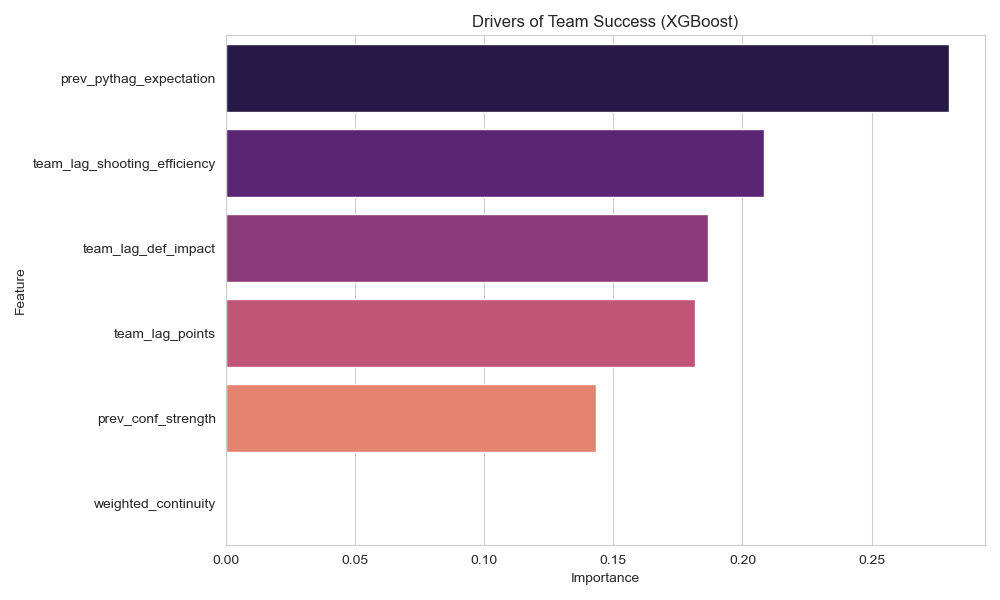
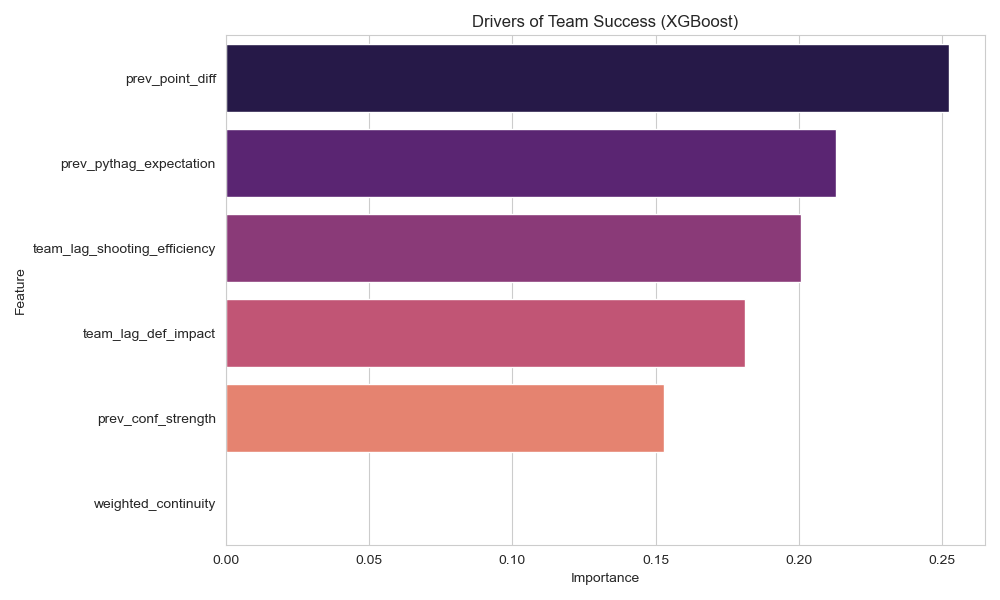
rankings updated

diff --git a/rankings.py b/rankings.py
@@ -50,21 +50,22 @@ print("Calculating Pythagorean Expectation...")
 
 teams_df_raw['pythag_win_pct'] = (teams_df_raw['o_pts']**13.91) / (teams_df_raw['o_pts']**13.91 + teams_df_raw['d_pts']**13.91)
 
+teams_df_raw['point_diff_pg'] = (teams_df_raw['o_pts'] - teams_df_raw['d_pts']) / teams_df_raw['GP']
+
 teams_df_raw['next_year'] = teams_df_raw['year'] + 1
-pythag_features = teams_df_raw[['tmID', 'next_year', 'pythag_win_pct']].rename(columns={'next_year': 'year', 'pythag_win_pct': 'prev_pythag_expectation'})
+pythag_features = teams_df_raw[['tmID', 'next_year', 'pythag_win_pct', 'point_diff_pg']].rename(columns={'next_year': 'year', 'pythag_win_pct': 'prev_pythag_expectation', 'point_diff_pg': 'prev_point_diff'})
 
 # =========================================================
 # STEP 3.3: WEIGHTED ROSTER CONTINUITY
 # =========================================================
 print("Calculating Weighted Roster Continuity (Efficiency Returning)...")
 
-player_stats_cols = ['playerID', 'year', 'minutes', 'points', 'win_pct', 'efficiency']
+player_stats_cols = ['playerID', 'year', 'tmID', 'minutes', 'points', 'win_pct', 'efficiency']
 if 'efficiency' not in df.columns:
     df['efficiency'] = df['points'] + df['rebounds'] + df['assists'] + df['steals'] + df['blocks'] - df['turnovers']
 
 team_total_eff = df.groupby(['tmID', 'year'])['efficiency'].sum().reset_index(name='team_total_efficiency')
 
-player_stats_cols = ['playerID', 'year', 'minutes', 'points', 'win_pct', 'efficiency']
 player_history = df[player_stats_cols].copy()
 player_history['next_year'] = player_history['year'] + 1
 player_history = player_history.rename(columns={
@@ -72,7 +73,8 @@ player_history = player_history.rename(columns={
     'points': 'prev_pts',
     'win_pct': 'prev_player_win_pct',
     'efficiency': 'prev_player_eff',
-    'year': 'prev_year'
+    'year': 'prev_year',
+    'tmID': 'prev_tmID'
 })
 
 df_roster = df[['year', 'tmID', 'playerID']].merge(
@@ -82,15 +84,18 @@ df_roster = df[['year', 'tmID', 'playerID']].merge(
     how='left'
 )
 
+df_roster = df_roster[df_roster['tmID'] == df_roster['prev_tmID']]
+
 roster_continuity_agg = df_roster.groupby(['year', 'tmID'])['prev_player_eff'].sum().reset_index(name='returning_efficiency_total')
 
 team_total_eff['next_year'] = team_total_eff['year'] + 1
 prev_team_totals = team_total_eff[['tmID', 'next_year', 'team_total_efficiency']].rename(columns={'next_year': 'year', 'team_total_efficiency': 'prev_year_team_total_eff'})
 
 roster_features = roster_continuity_agg.merge(prev_team_totals, on=['year', 'tmID'], how='left')
+
 roster_features['weighted_continuity'] = roster_features['returning_efficiency_total'] / roster_features['prev_year_team_total_eff']
 
-roster_features['weighted_continuity'] = roster_features['weighted_continuity'].fillna(0).clip(0, 1.5)
+roster_features['weighted_continuity'] = roster_features['weighted_continuity'].fillna(0).clip(0, 1.1)
 
 print("Weighted continuity calculated")
 
@@ -119,7 +124,7 @@ conf_strength.rename(columns={'win_pct': 'prev_conf_strength'}, inplace=True)
 team_df = team_df.merge(conf_strength, on=['year', 'conference'], how='left')
 team_df['prev_conf_strength'] = team_df['prev_conf_strength'].fillna(0.5)
 
-lag_cols = ['points','shooting_efficiency', 'def_impact', 'win_pct']
+lag_cols = ['shooting_efficiency', 'def_impact', 'win_pct']
 for col in lag_cols:
     team_df[f'team_lag_{col}'] = team_df.groupby('tmID')[col].shift(1)
 
@@ -129,14 +134,14 @@ model_df = model_df.merge(roster_features[['year', 'tmID', 'weighted_continuity'
 model_df = model_df.dropna(subset=[f'team_lag_{col}' for col in lag_cols])
 
 model_df['prev_pythag_expectation'] = model_df['prev_pythag_expectation'].fillna(model_df['team_lag_win_pct'])
-model_df['weighted_continuity'] = model_df['weighted_continuity'].fillna(0.5)
+model_df['weighted_continuity'] = model_df['weighted_continuity'].fillna(0.6)
 
 # =========================================================
 # STEP 3.5: MODEL TRAINING (XGBOOST)
 # =========================================================
 features = [
     'prev_pythag_expectation',
-    'team_lag_points',
+    'prev_point_diff',
     'team_lag_def_impact',
     'team_lag_shooting_efficiency',
     'weighted_continuity',
